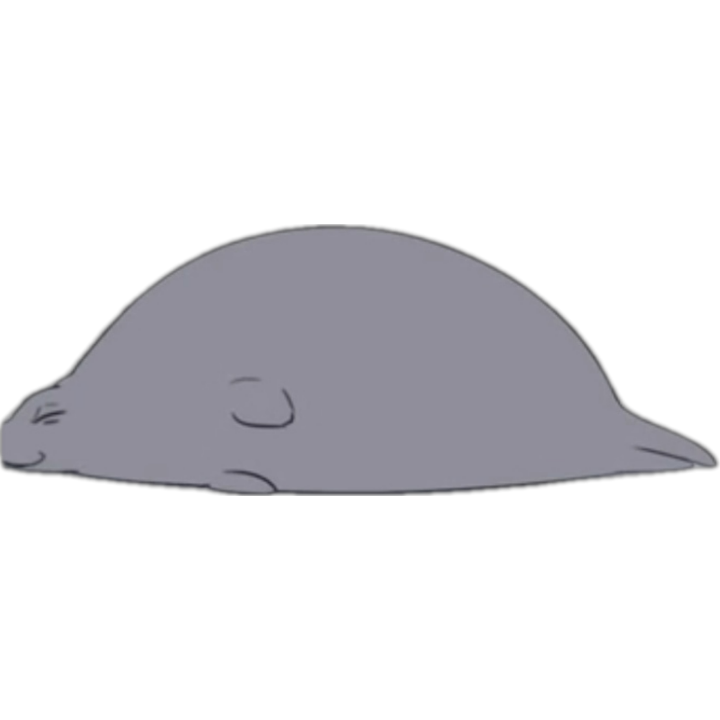
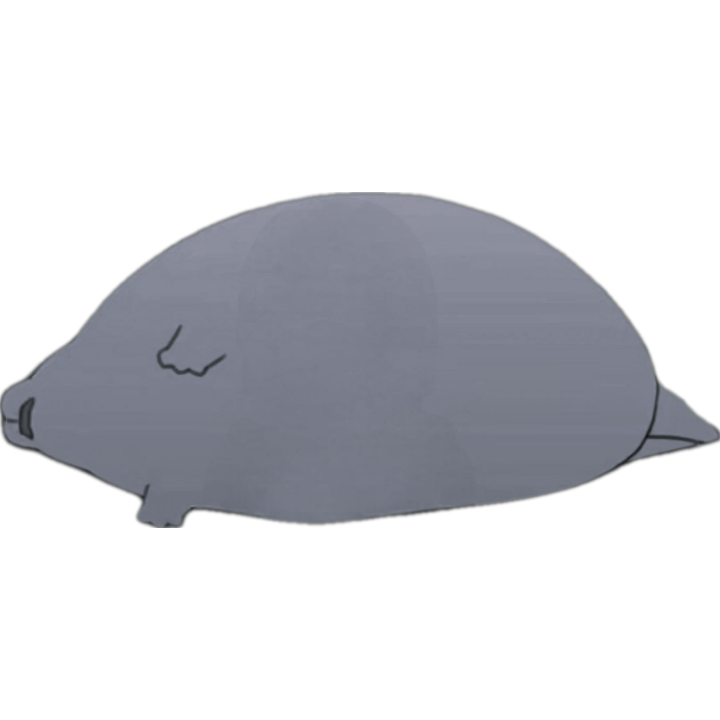
image hinzugefügt

Changed region(s): [[0.0, 0.2444, 1.0, 0.7333], [0.2139, 0.4583, 0.3361, 0.5194]]

diff --git a/scr/MyTamagotchi richtig/MyTamagotchi (2)/MyTamagotchi/MyTamagotchi/Windows/MainWindow.xaml b/scr/MyTamagotchi richtig/MyTamagotchi (2)/MyTamagotchi/MyTamagotchi/Windows/MainWindow.xaml
@@ -28,6 +28,8 @@
                        Width="150" Height="150" 
                        HorizontalAlignment="Center" Grid.Row="0" Margin="0,0,0,20"/>
 
+                <Image Name="Plushie" Source="/Assets/plushie.png" Width="68" HorizontalAlignment="Left" Grid.Row="0" Margin="0,97,0,28" Grid.RowSpan="2"/>
+
                 <!--Error-->
                 <TextBlock x:Name="ErrorTextBlock" Foreground="#FFA7CFFD" FontSize="14" TextWrapping="Wrap" Margin="155,20,155,115" Grid.Row="4" FontWeight="Bold"/>
 
@@ -105,6 +107,7 @@
 
                 <!-- MiniGame -->
                 <local:MiniGameOverlayControl x:Name="MiniGame" Panel.ZIndex="99" Visibility="Collapsed" Grid.RowSpan="5"/>
+
             </Grid>
         </Border>
     </Viewbox>
